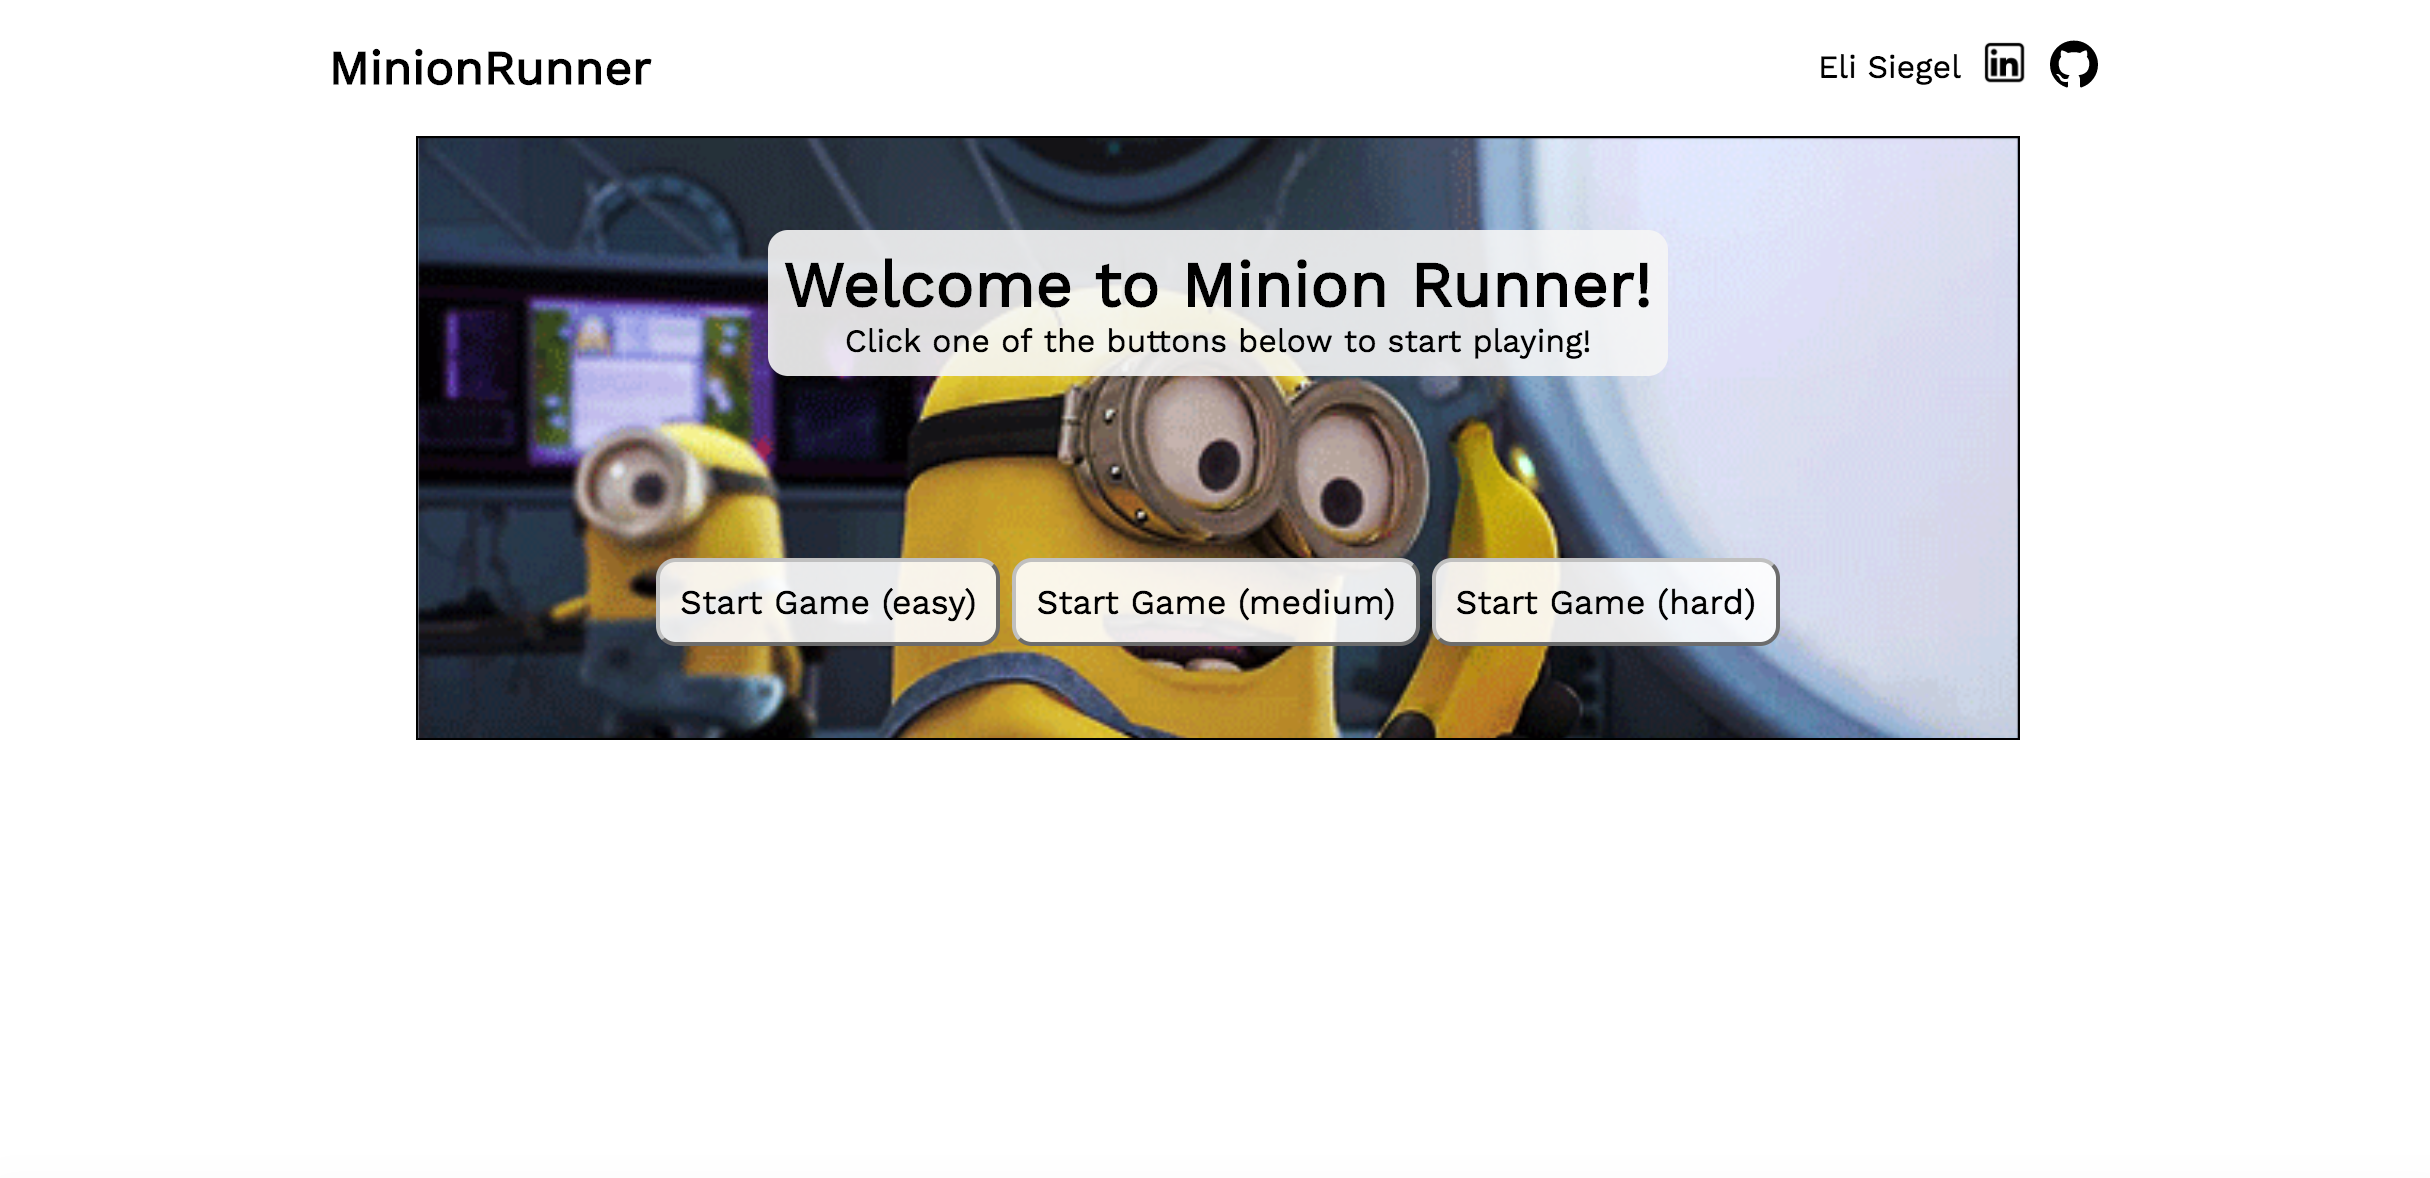
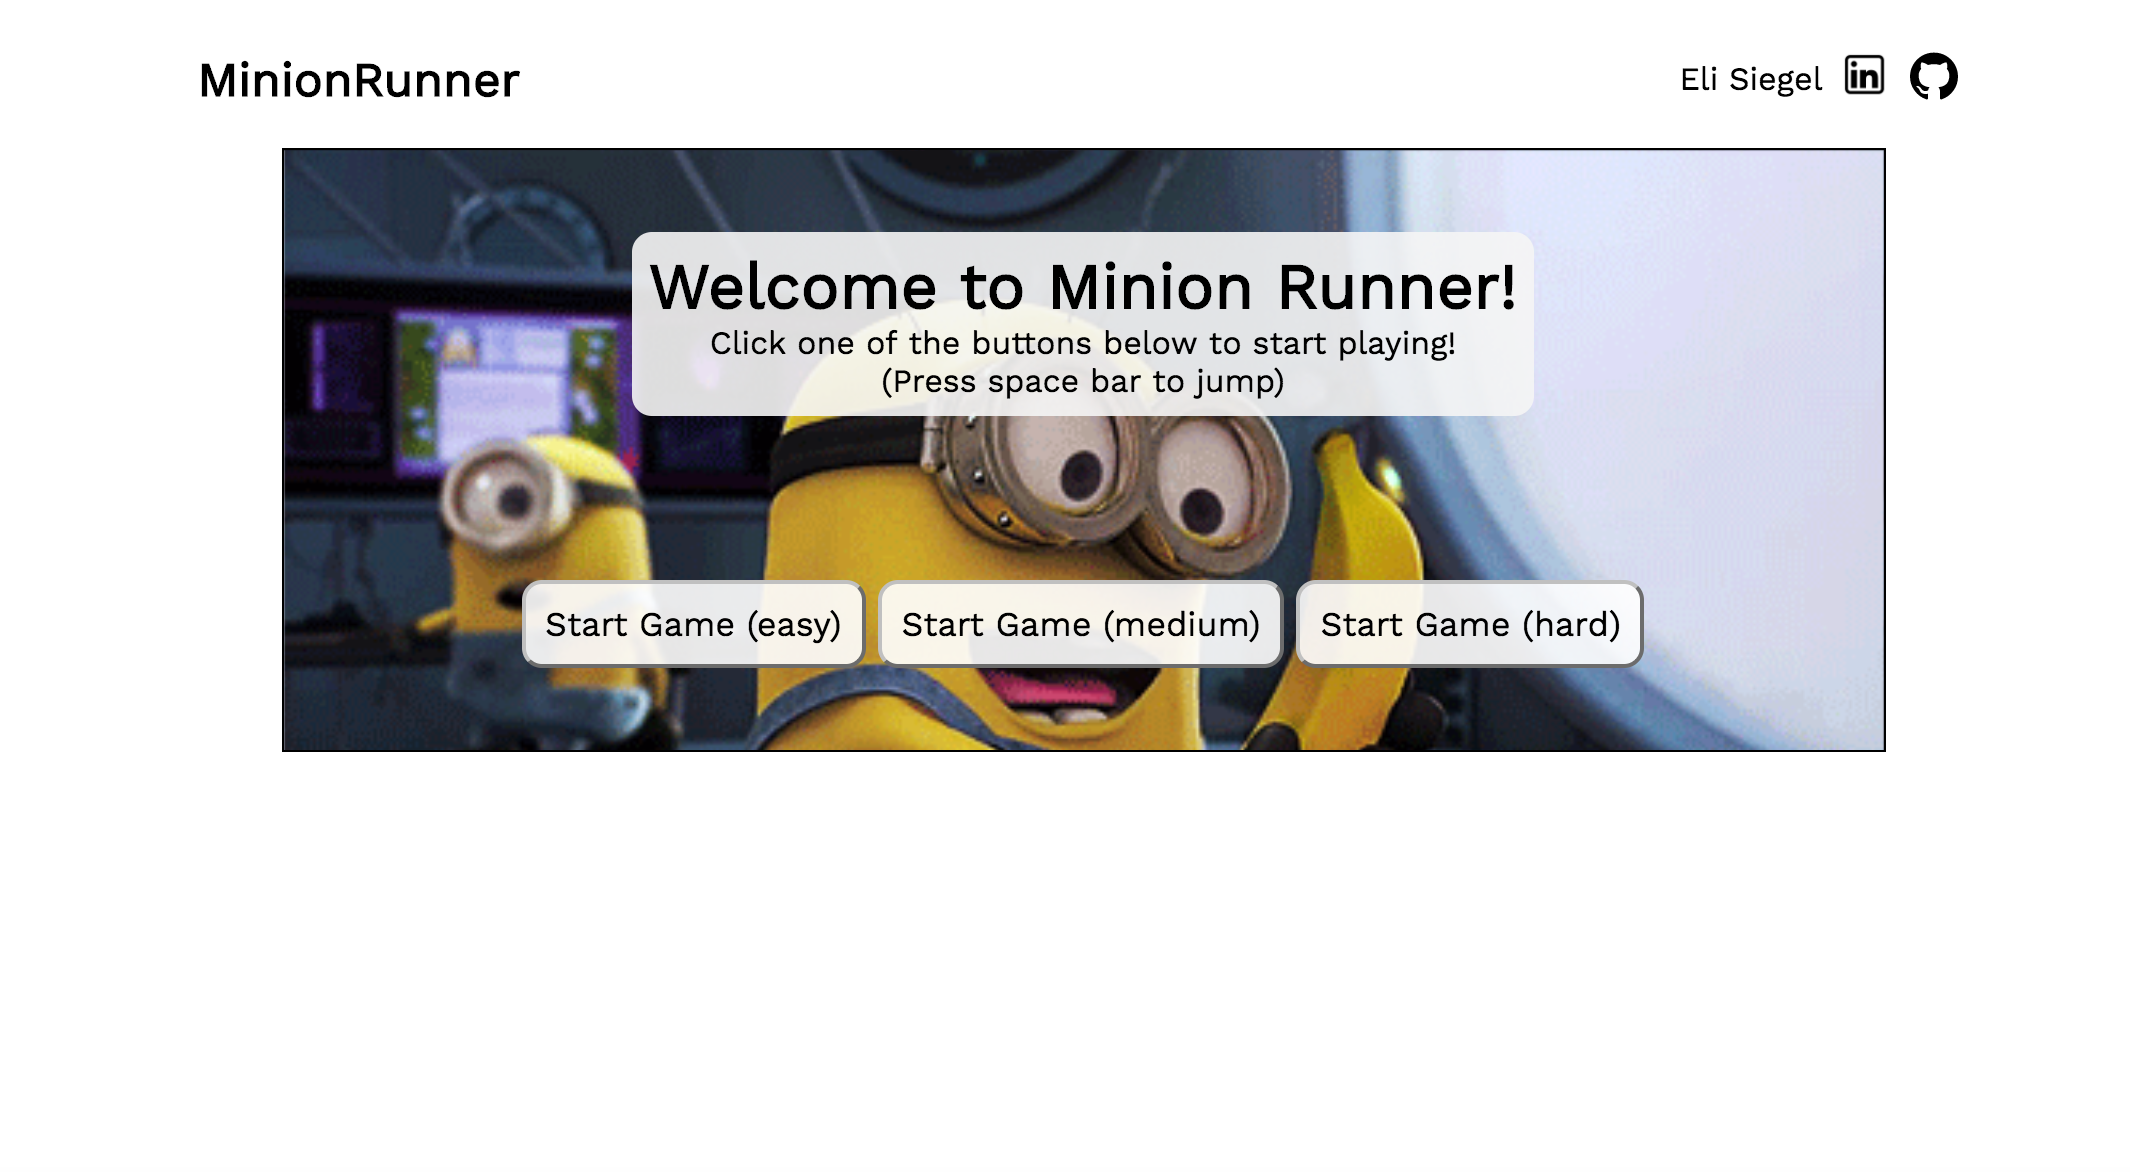
update photos

Changed region(s): [[0.093, 0.0307, 0.9296, 0.6451]]

diff --git a/css/custom.css b/css/custom.css
@@ -21,7 +21,7 @@
 }
 
 header.masthead {
-  background: url('../img/nyc.jpeg');
+  background: url('../img/rio.jpg');
   background-size: cover;
 }
 
